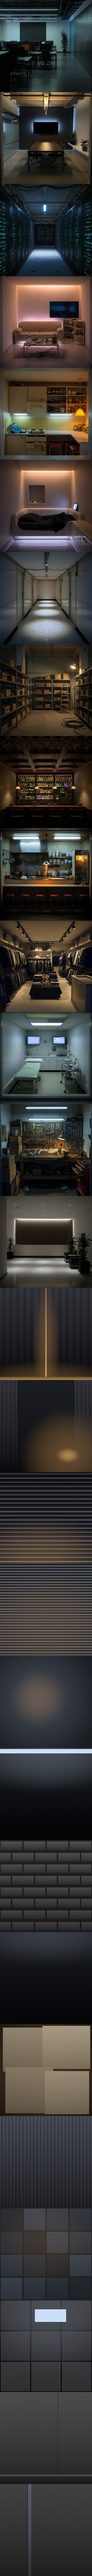
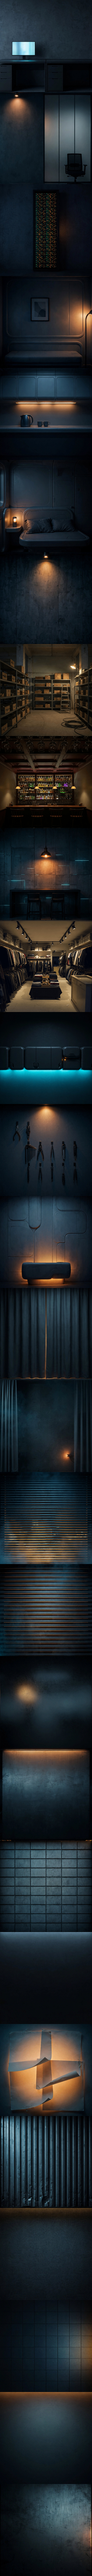
prefab: the rooms, the panels and the shared faces are photographs now

diff --git a/game/prefab/tools/manifest.ts b/game/prefab/tools/manifest.ts
@@ -4,7 +4,7 @@ import type { Look } from './look.ts'
 
 /** What the pack is called, and the version its bytes are at. Bump `VERSION` whenever any of the seven files changes. */
 export const PACK = 'gb-buildings'
-export const VERSION = '1.11.0'
+export const VERSION = '1.12.0'
 
 /** One model's manifest entry: the look it came from, replayed at this shape. */
 export function modelOf(look: Look, bucket: Bucket, id: string, triangles: number): ModelSpec {
